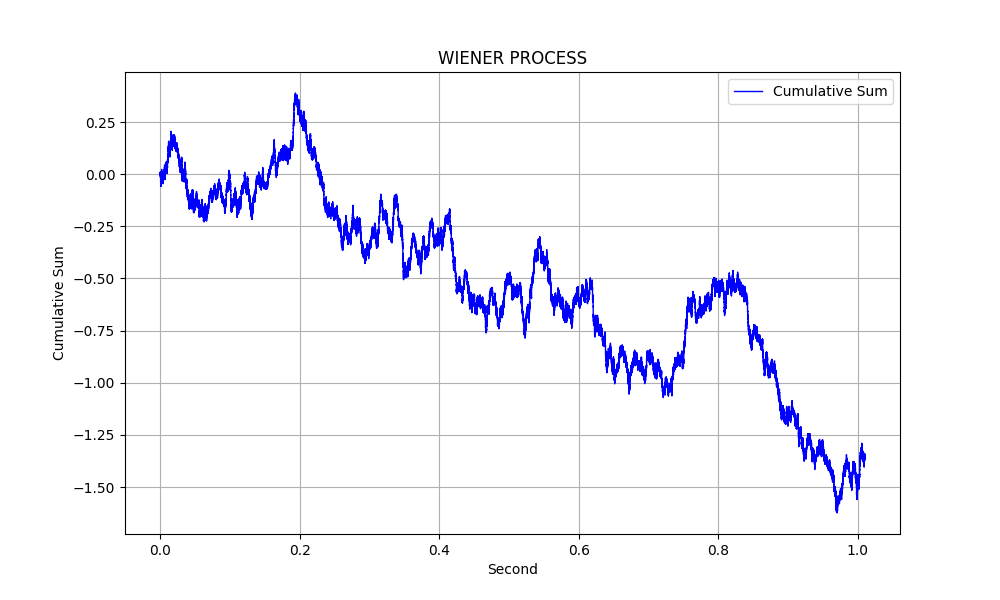
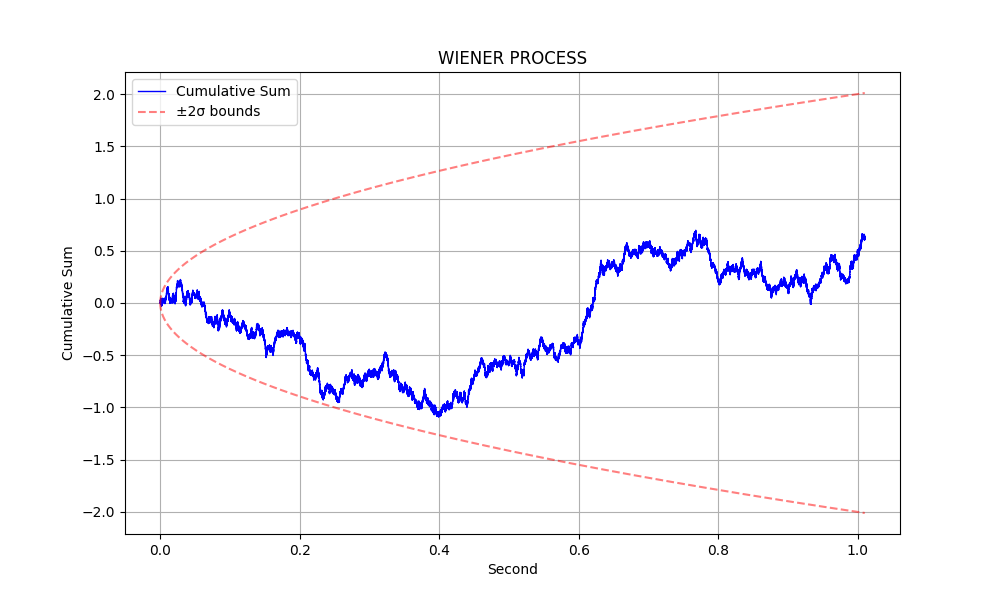
First Commit

diff --git a/main.py b/main.py
@@ -35,15 +35,17 @@ def plot_wiener_process(
         filename: str = "wiener_plot.png",
     ) -> None:
 
-    variance = ALPHA * T
-    std = np.sqrt(variance)
-
     new_dict = calculate_cumulative_sum(result_dict)
-    keys = [key / N for key in new_dict.keys()] # X values (number of samples)
-    values = [value for value in new_dict.values()] # Y values (Cumulative sum of everything before the current sample)
+    times = [key / N for key in new_dict.keys()] # X values (number of samples)
+    values = new_dict.values() # Y values (Cumulative sum of everything before the current sample)
 
     plt.figure(figsize=(10, 6))
-    plt.plot(keys, values, label="Cumulative Sum", color='b', linewidth=1)
+    plt.plot(times, values, label="Cumulative Sum", color='b', linewidth=1)
+
+    # Add theoretical bounds
+    std = np.sqrt(ALPHA * times)
+    plt.plot(times, 2 * std, 'r--', alpha=0.5, label='±2σ bounds')
+    plt.plot(times, -2 * std, 'r--', alpha=0.5)
 
     plt.xlabel("Second")
     plt.ylabel("Cumulative Sum")
